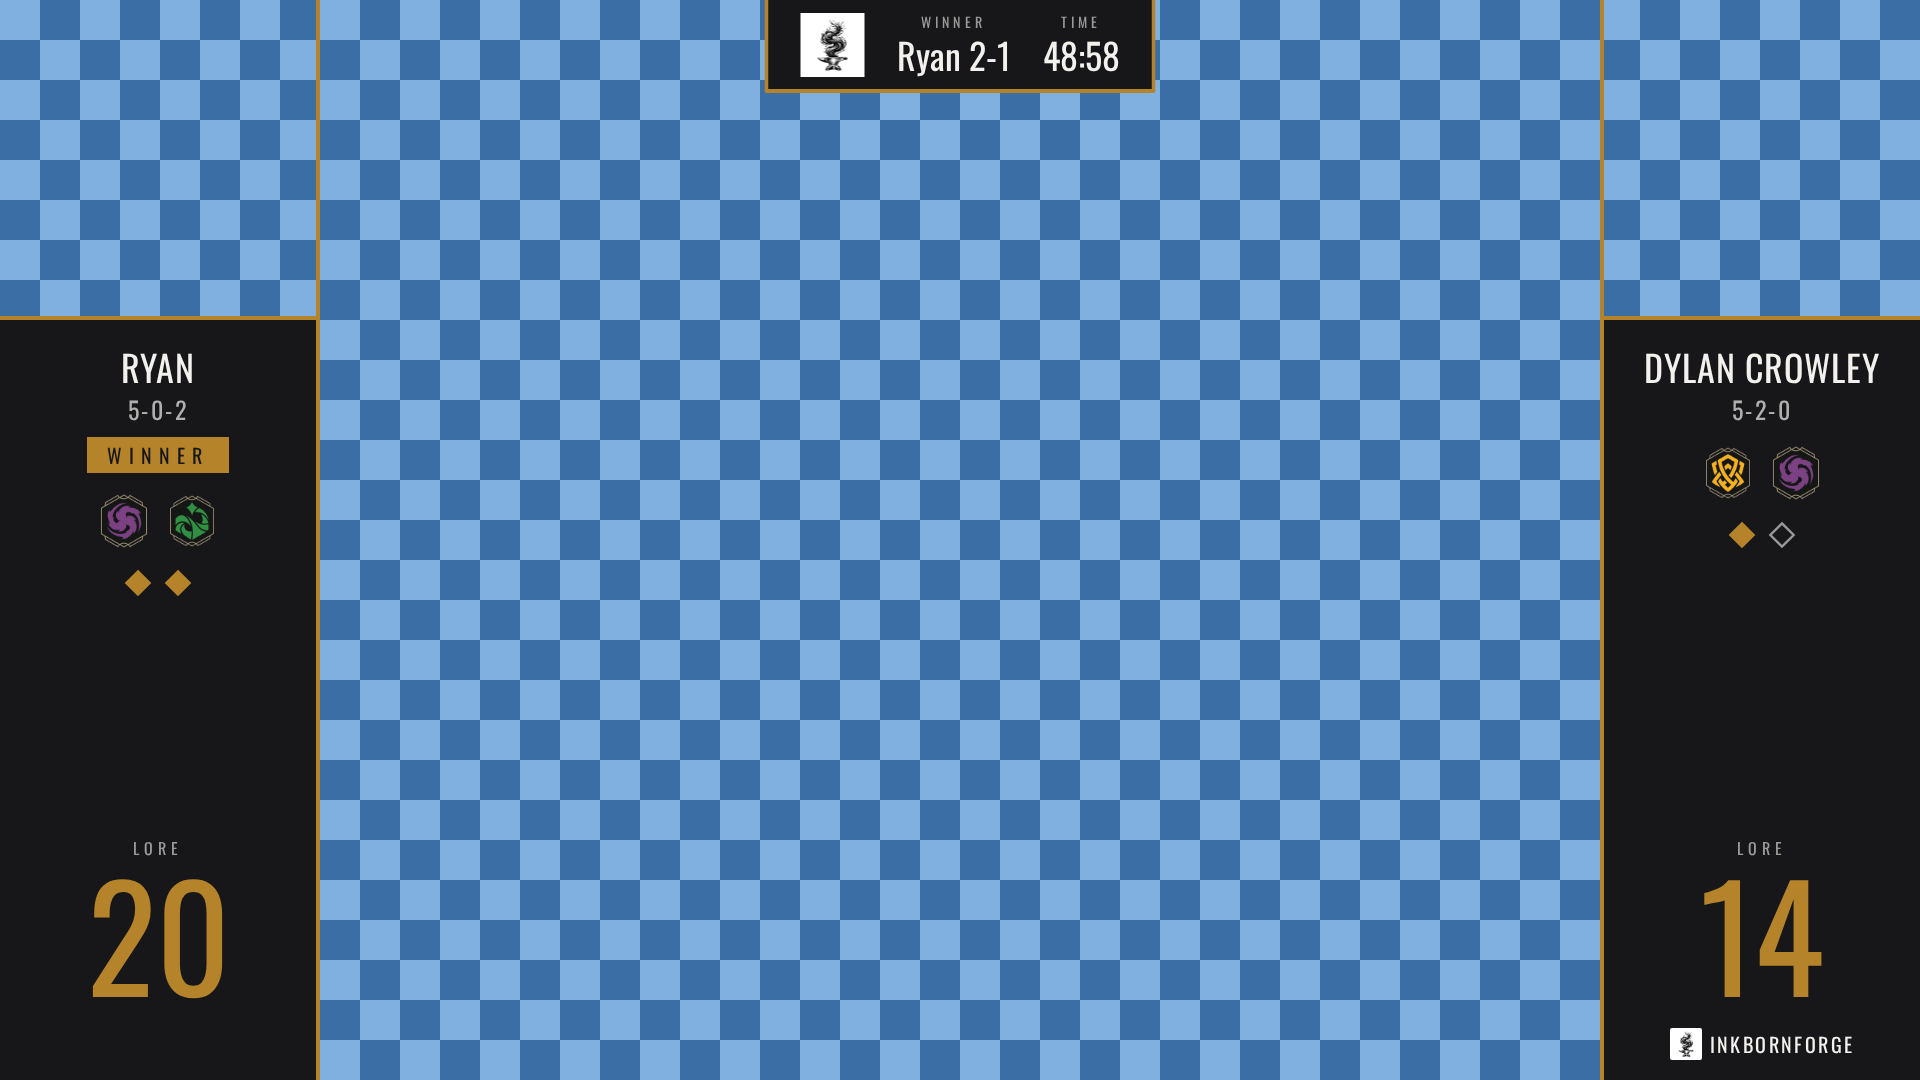
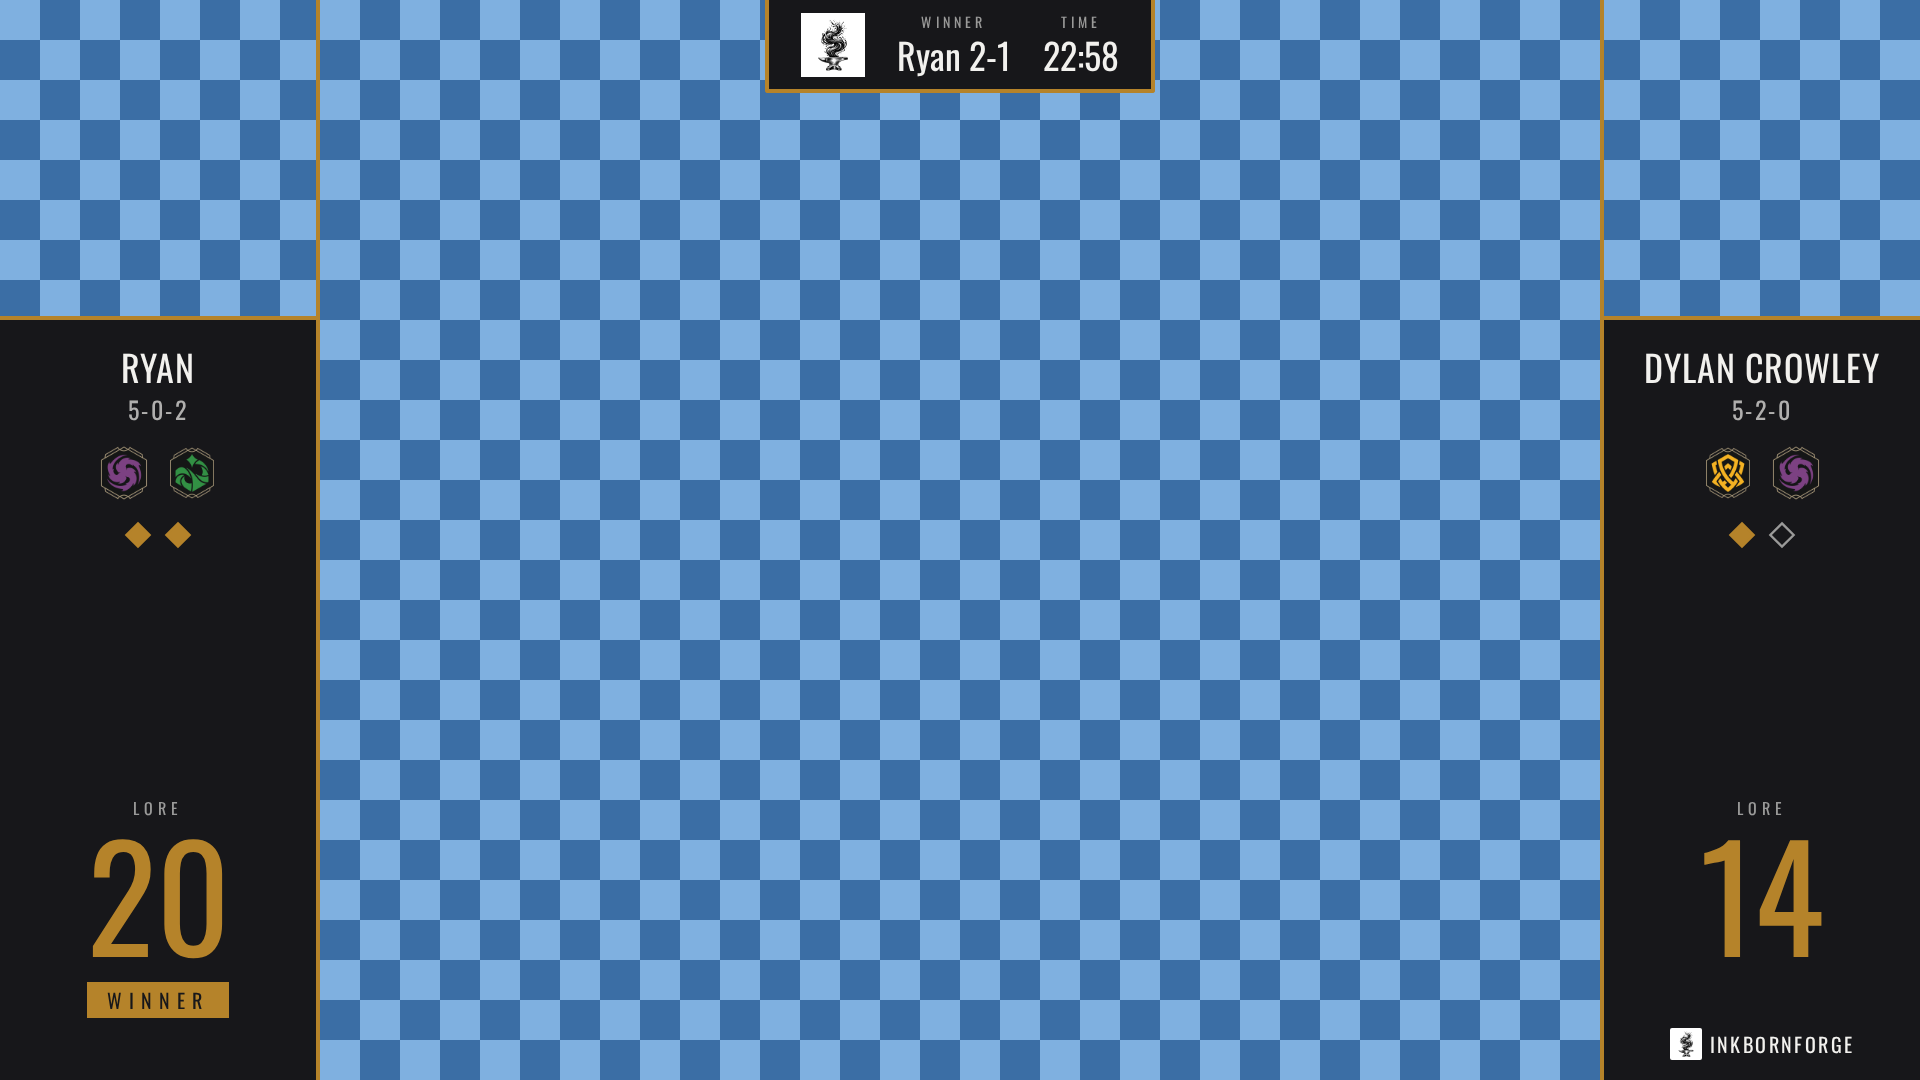
Stream Overlay: Winner ribbon in a fixed slot under the lore
Under the name it pushed inks, pips and lore out of line with the other
column. It now sits in a reserved fixed-height slot under the lore on
the live overlay and under the inks on the break screen, so both sides
keep identical layouts whether or not there's a winner.

Claude-Session: https://claude.ai/code/session_01PuhSUkhQdqWYCWVwuEZRoD

diff --git a/src/pages/StreamOverlayViewPage.jsx b/src/pages/StreamOverlayViewPage.jsx
@@ -93,9 +93,6 @@ function SideColumn({ player, side, isWinner }) {
       <div className="mt-6 px-4 w-full text-center">
         <div className="text-4xl uppercase tracking-wide leading-tight truncate">{player.name || ' '}</div>
         <div className="mt-1 text-2xl text-(--on-fill)/70 tracking-widest">{player.record || ' '}</div>
-        {isWinner && (
-          <div className="mt-3 inline-block px-5 py-1 bg-(--accent) text-(--fill) text-xl uppercase tracking-[0.35em]">Winner</div>
-        )}
       </div>
 
       <div className="mt-5 flex gap-3">
@@ -119,8 +116,15 @@ function SideColumn({ player, side, isWinner }) {
         <div className="text-[9rem] leading-none text-(--accent) tabular-nums">{player.lore}</div>
       </div>
 
+      {/* Fixed-height slot so both columns stay aligned whether or not there's a winner. */}
+      <div className="mt-4 h-10 flex items-center justify-center">
+        {isWinner && (
+          <div className="px-5 py-1 bg-(--accent) text-(--fill) text-xl uppercase tracking-[0.35em]">Winner</div>
+        )}
+      </div>
+
       {/* Brand lockup, bottom-right like the reference streams; mirrors Nav's. */}
-      <div className="mt-6 mb-5 h-8 flex items-center justify-center gap-2">
+      <div className="mt-2 mb-5 h-8 flex items-center justify-center gap-2">
         {side === 'right' && (
           <>
             <img src="/inkborn_forge_mark_64.png" alt="" className="h-8 w-8 rounded-sm" />
@@ -197,10 +201,13 @@ function BreakPlayer({ player, isWinner }) {
   return (
     <div className="w-[560px] text-center">
       <div className={`text-6xl uppercase tracking-wide leading-tight truncate ${isWinner ? 'text-(--accent)' : ''}`}>{player.name || ' '}</div>
-      {isWinner && <div className="mt-2 inline-block px-5 py-1 bg-(--accent) text-(--fill) text-xl uppercase tracking-[0.35em]">Winner</div>}
       <div className="mt-2 text-3xl text-(--on-fill)/70 tracking-widest">{player.record || ' '}</div>
       <div className="mt-5 flex justify-center gap-4">
         {player.inks.map(ink => <InkIcon key={ink} color={ink} size={72} />)}
+      </div>
+      {/* Fixed-height slot so both sides stay aligned whether or not there's a winner. */}
+      <div className="mt-5 h-10 flex items-center justify-center">
+        {isWinner && <div className="px-5 py-1 bg-(--accent) text-(--fill) text-xl uppercase tracking-[0.35em]">Winner</div>}
       </div>
     </div>
   )

diff --git a/CLAUDE.md b/CLAUDE.md
@@ -508,7 +508,7 @@ Client-side, `routeTitle()`/`routeDescription()` resolve a `/blog/<slug>` path t
 A tournament gameplay overlay for OBS, in the same control-page + chrome-less-view shape as the Decklist Inspector, plus a players' controller. **A "table" is a `stream_tables` row** (`supabase/migrations/012_stream_tables.sql`): one per feature table a supporter streams, with one column per overlay field (event, logos, round, timer, RPH link, and `p1_*`/`p2_*` name, record, inks, lore, game wins) rather than a JSON blob, so increments happen in the database and two writers can never lose a tap. Three routes share a row:
 
 - `StreamOverlayPage` (`/stream-overlay`, supporter-gated, Content Creators) is the control panel. It lists the owner's tables (switch / rename / New table / Delete table / Live-Break toggle; the first table is an explicit click, never auto-created — a mount effect that created one ran twice under StrictMode and made two). Every edit is an optimistic local change plus a column `update` under RLS (`updateTable()`). Lore and game-win buttons go through `adjustTable()`, the same atomic RPC the controller uses. From the row's broadcasts the panel adopts **only the four score columns** — everything else is the owner's own typing, and adopting the echo of a keystroke would clobber the next one. "Copy OBS overlay link" / "Copy player controller link" give the two other URLs; the selected table is remembered in localStorage (`lorcana_stream_table`).
-- `StreamOverlayViewPage` (`/stream-overlay/view?table=<id>`, unguarded) is the one Browser Source: a fixed 1920×1080 frame with opaque ink-black side columns (a transparent **square** cutout at the top of each — the operator positions that player's camera behind it in OBS — then name, record, ink icons, game-win pips, lore) and a top banner (event logo or name, round, timer); everything else is transparent so the gameplay cam sits behind it. An optional sponsor logo sits bottom-center, and the InkbornForge mark + wordmark (same lockup as `Nav`) sits at the foot of the right column, where the reference streams put the overlay tool's brand. It loads the row with `fetchPublicTable()` and then renders every broadcast. **Winner:** derived, no state — once a side's game wins reach `MAX_GAME_WINS` (`winnerIndex()`), that column gets a "Winner" ribbon and the banner's Round stat becomes "Winner · Name 2-1"; resetting game wins for the next match clears it. **Break:** when the row's `mode` is `break` (migration `013_stream_tables_mode.sql`; the panel's Live / Break toggle writes it) the same source renders an opaque full-frame screen instead — event logo or name, a headline, both names, records and inks, the round, sponsor logo and brand. The headline is `breakHeadline()`, derived from the score because the table keeps holding the pair that just played until the next pairing is published on RPH and sent over: a side on 2 game wins reads "Final" with the score and a Winner ribbon, 0-0 reads "Next match", anything else "Match in progress" with the score. While the round clock has time left it also counts down on the break screen ("Time left in round"), since a feature match often ends early and viewers want to know when the next round starts. So the flow between matches is: flip to Break when the match ends (the result shows), send the next pairing from Tournament Lookup once RPH publishes it (the screen becomes "Next match" by itself), flip to Live when the cameras are up. No second OBS source.
+- `StreamOverlayViewPage` (`/stream-overlay/view?table=<id>`, unguarded) is the one Browser Source: a fixed 1920×1080 frame with opaque ink-black side columns (a transparent **square** cutout at the top of each — the operator positions that player's camera behind it in OBS — then name, record, ink icons, game-win pips, lore) and a top banner (event logo or name, round, timer); everything else is transparent so the gameplay cam sits behind it. An optional sponsor logo sits bottom-center, and the InkbornForge mark + wordmark (same lockup as `Nav`) sits at the foot of the right column, where the reference streams put the overlay tool's brand. It loads the row with `fetchPublicTable()` and then renders every broadcast. **Winner:** derived, no state — once a side's game wins reach `MAX_GAME_WINS` (`winnerIndex()`), that column gets a "Winner" ribbon in a fixed-height slot under the lore number (under the inks on the break screen) — a reserved slot, so the other column's name, record, inks, pips and lore stay level whether or not there's a winner — and the banner's Round stat becomes "Winner · Name 2-1"; resetting game wins for the next match clears it. **Break:** when the row's `mode` is `break` (migration `013_stream_tables_mode.sql`; the panel's Live / Break toggle writes it) the same source renders an opaque full-frame screen instead — event logo or name, a headline, both names, records and inks, the round, sponsor logo and brand. The headline is `breakHeadline()`, derived from the score because the table keeps holding the pair that just played until the next pairing is published on RPH and sent over: a side on 2 game wins reads "Final" with the score and a Winner ribbon, 0-0 reads "Next match", anything else "Match in progress" with the score. While the round clock has time left it also counts down on the break screen ("Time left in round"), since a feature match often ends early and viewers want to know when the next round starts. So the flow between matches is: flip to Break when the match ends (the result shows), send the next pairing from Tournament Lookup once RPH publishes it (the screen becomes "Next match" by itself), flip to Live when the cameras are up. No second OBS source.
 - `StreamOverlayControlPage` (`/stream-overlay/control?table=<id>&key=<controller key>`, unguarded) is the players' controller for a tablet at the table: one half per player with big lore ±1 and game-win ±1 taps, each a call to `adjust_stream_table()`. It needs nothing else open.
 
 **Access model, three roles.** The owner reads and writes their rows directly under an owner-only RLS policy. The view and controller are unauthenticated (a Browser Source has no session), so they read through `get_stream_table(id)`, a SECURITY DEFINER function returning the public columns only (never `controller_key` or `owner_id`), and a `BEFORE INSERT OR UPDATE` trigger broadcasts that same public shape via `realtime.send()` on the public Realtime topic `stream-table:<id>` — so a late joiner just reads the row and there is no heartbeat. Taps call `adjust_stream_table(id, key, side, field, ±1)`, a clamped atomic increment gated by `controller_key`, which rides only in the controller link; the view link alone can't change scores. All three were verified against the real project with an anonymous client: direct table reads return nothing, the public read hides the key, a wrong key is refused, five taps land as five and arrive as five broadcasts. No serverless function is involved, so the function budget is untouched. (Applying the migration through the Supabase MCP: statements it classes as destructive — `DROP … IF EXISTS` included — stall waiting for a confirmation that never comes; apply the file's statements without those guards on a fresh schema.)
